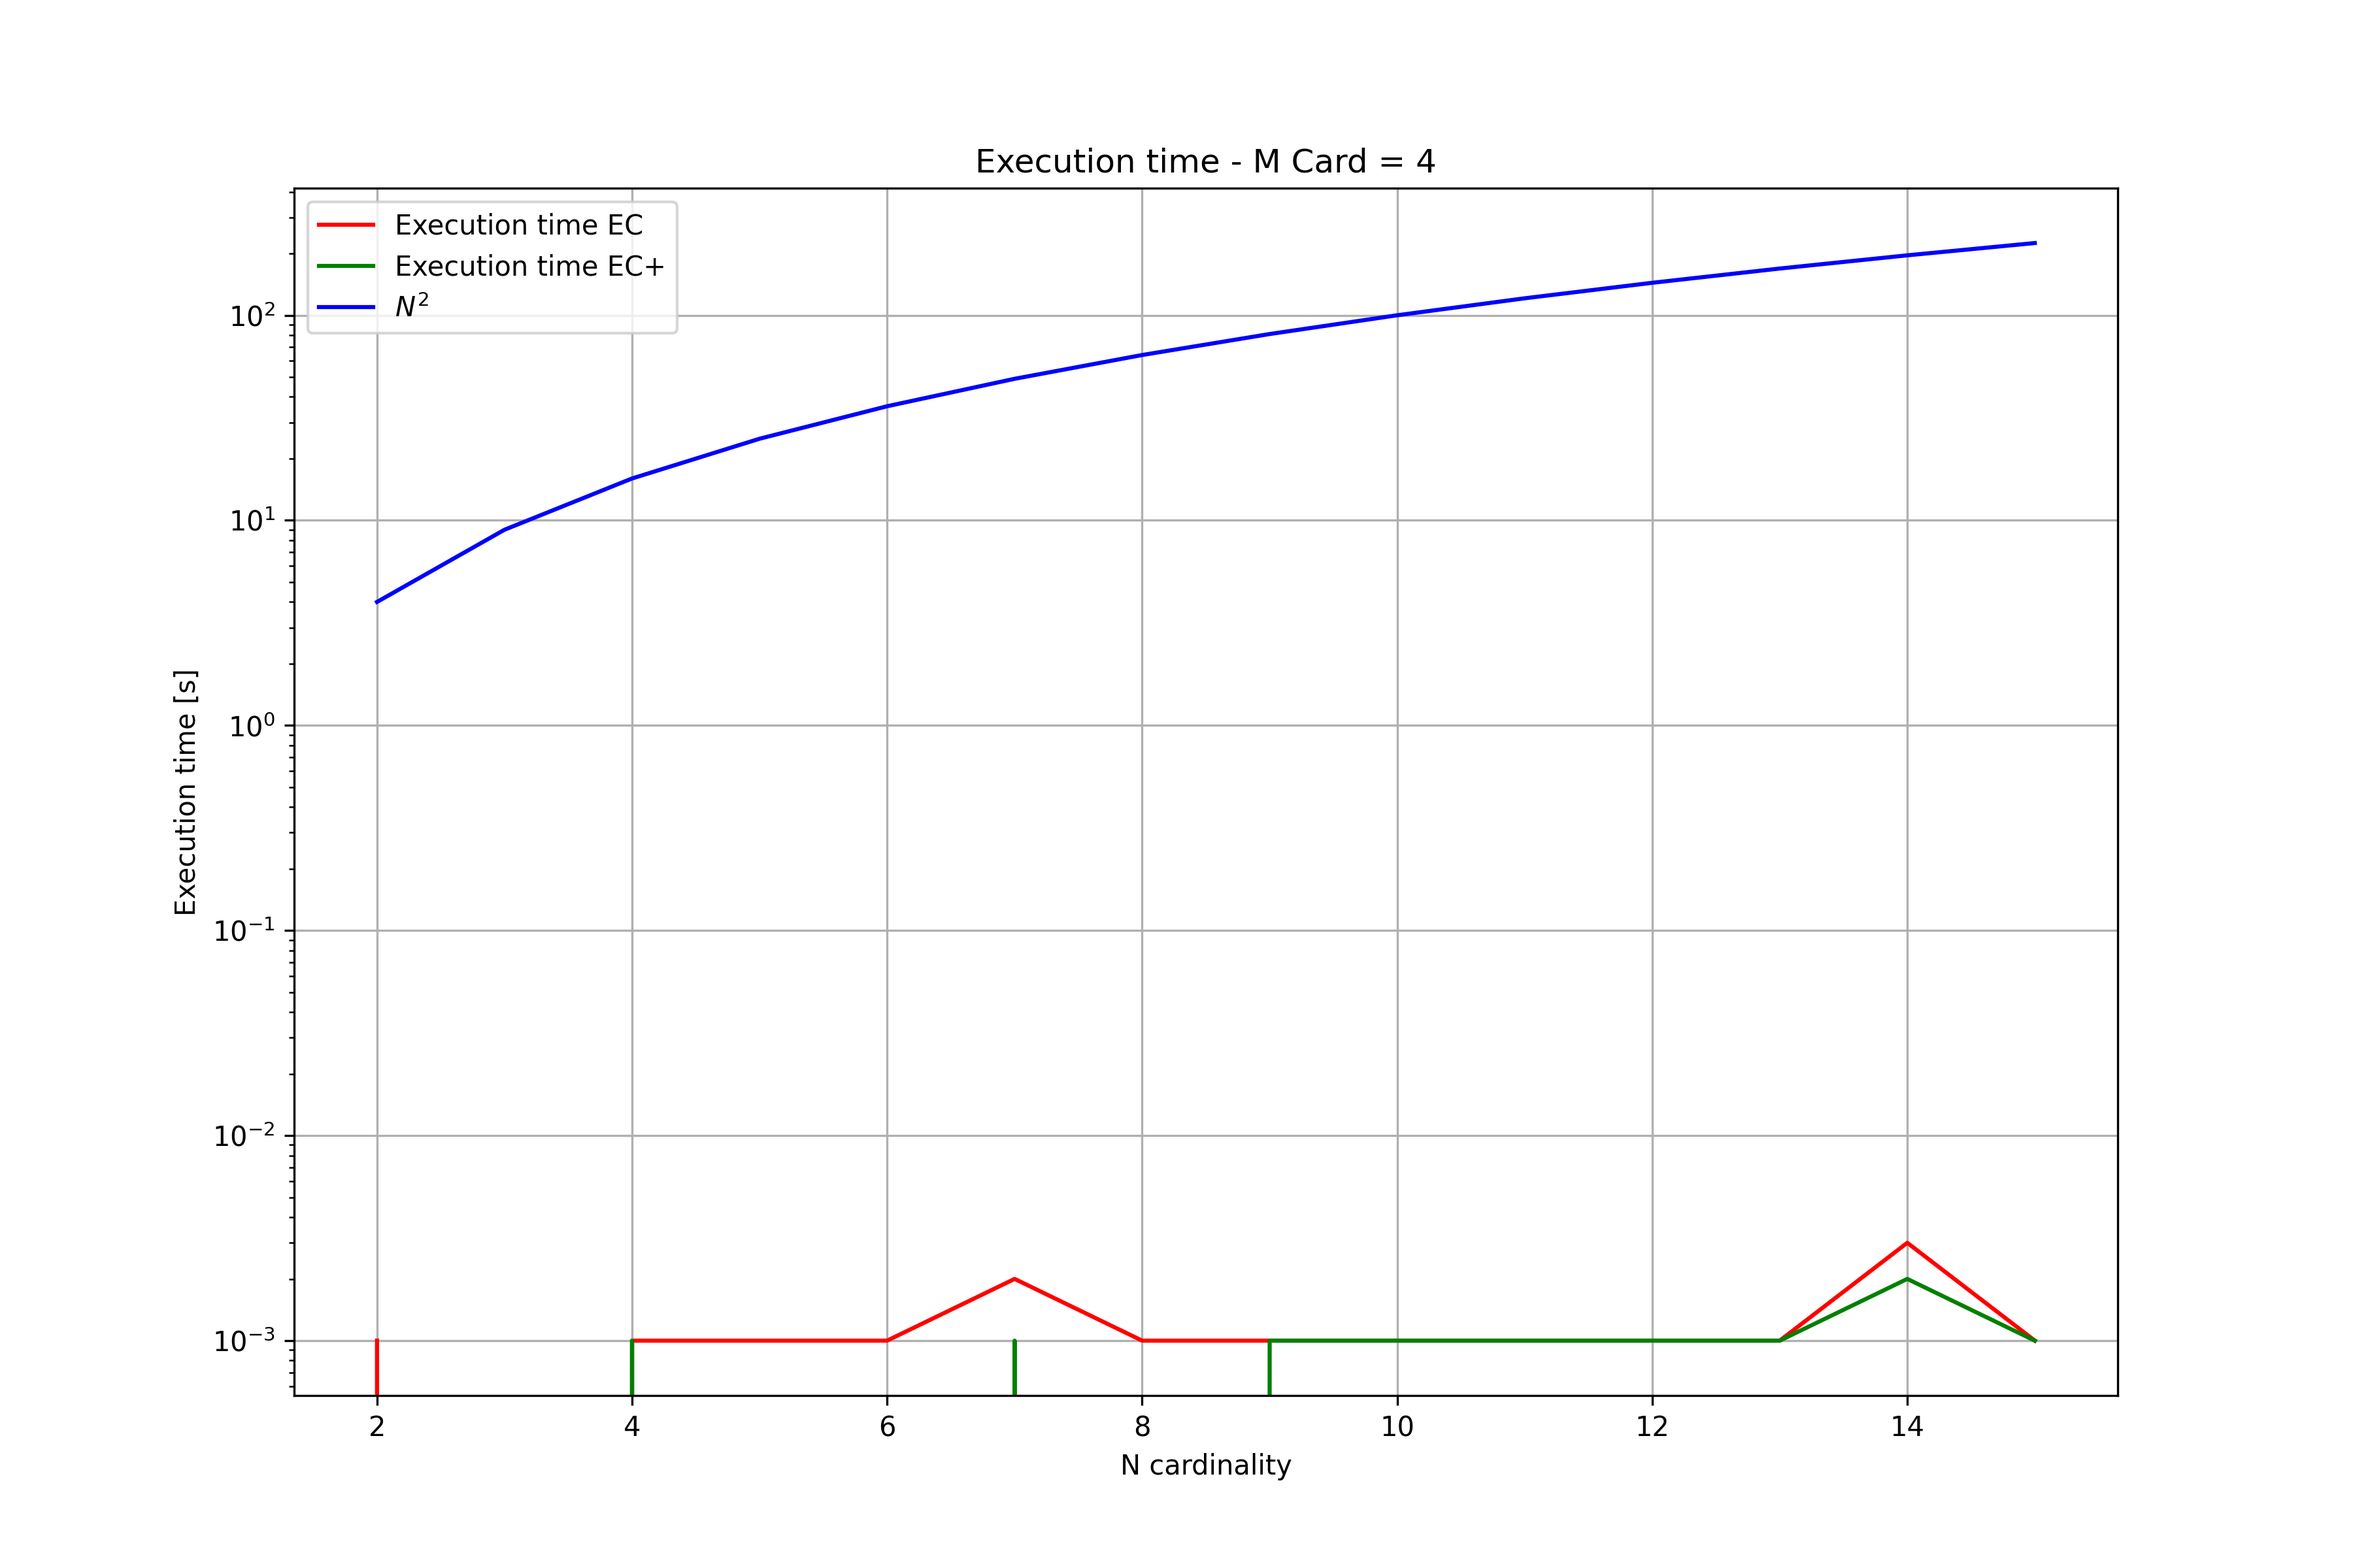
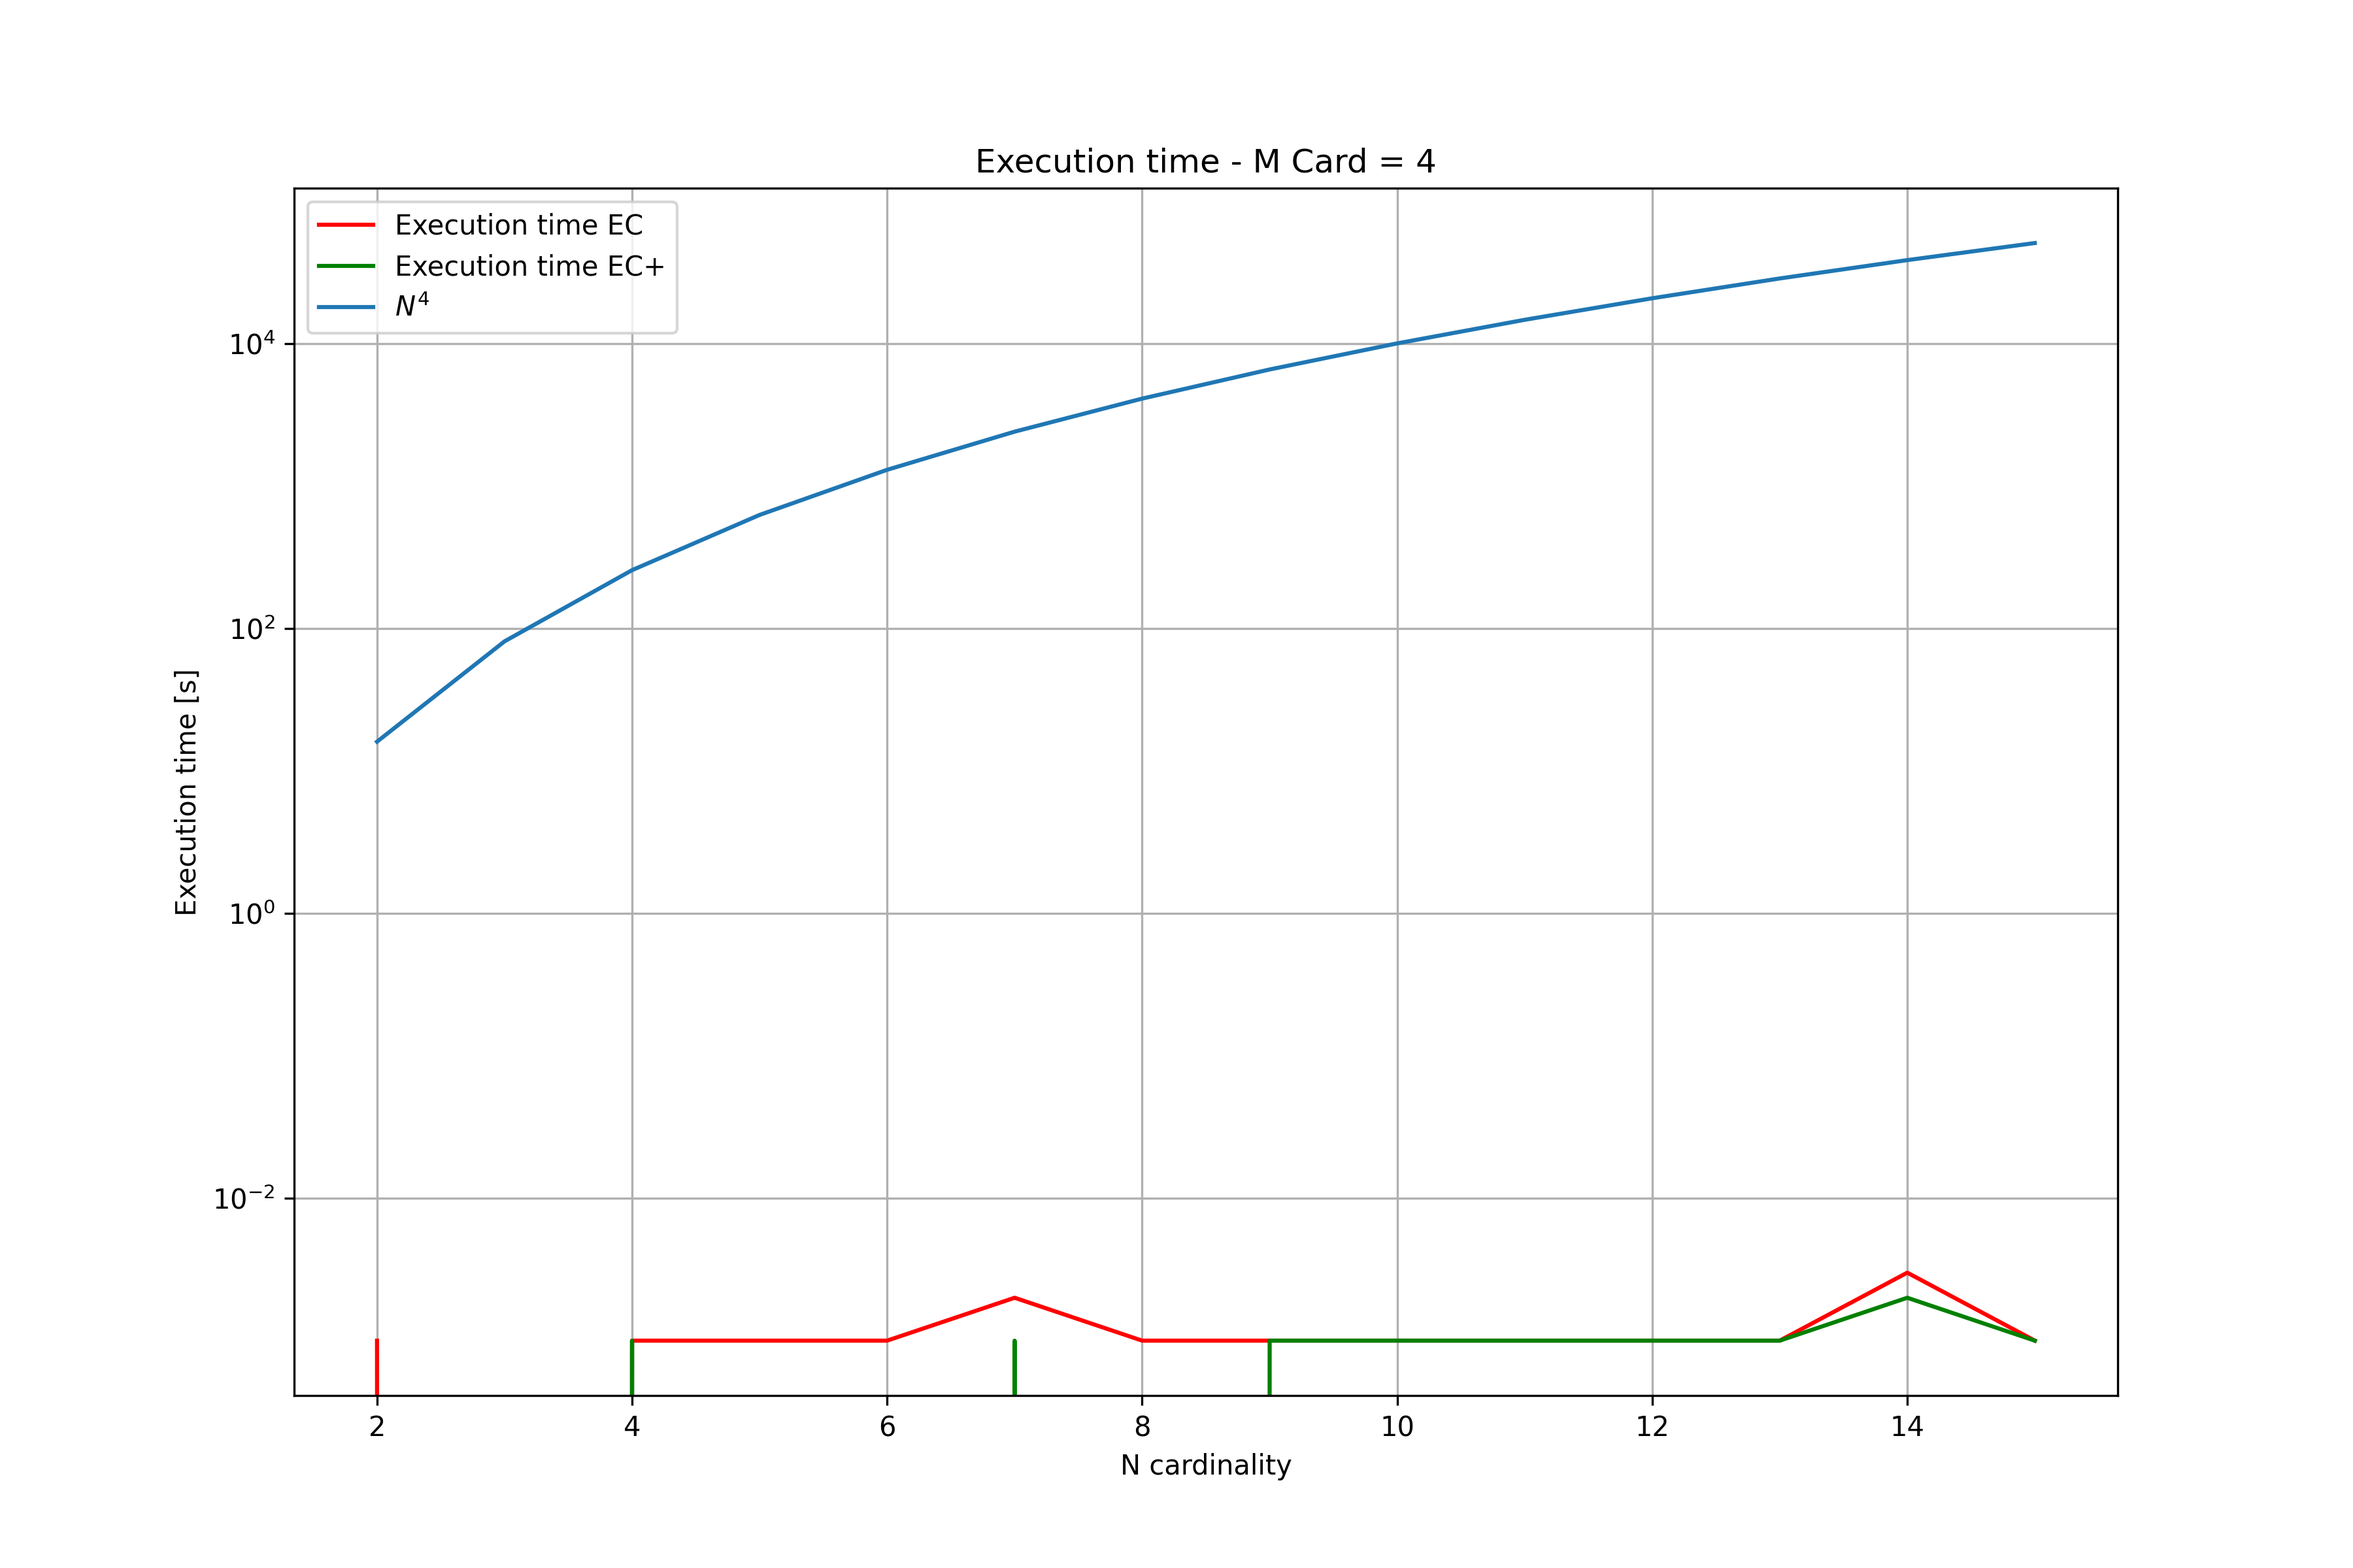
..

diff --git a/Readme.md b/Readme.md
@@ -346,6 +346,8 @@ Notiamo come i tempi di esecuzione di EC ed EC+ non sembrino sostanzialmente div
 di EC+ data al codice non va a modificare il numero di nodi visitati ma va solo a diminuire il numero di unioni tra righe
 della matrice A (operazione che, con la libreria NumPy, non va ad appesantire il sistema in maniera critica); questo
 determina un tempo di esecuzione minore ma non in maniera sostanziale.
+Notiamo come la curva del tempo di esecuzione di entrambi gli algoritmi segue lo sviluppo della curva di $N^4$, quindi 
+possiamo approssimare la complessità temporale di entrambi gli algoritmi con un $O(N^4)$.
 
 ### Numero di nodi visitati
 
@@ -446,10 +448,12 @@ determina un tempo di esecuzione minore ma non in maniera sostanziale.
 |  *Cardinalità di M = 25)*   |
 
 
-Notiamo come, all'aumentare della cardinalità di M, la curva verde tende ad approssimarsi molto bene alla curva blu $N^2$.
-Questo è in linea con le ipotesi teoriche in quanto il ciclo utilizzato dall'algoritmo dovrà verificare, per ogni riga
-della matrice A, tutte le unioni tra quest'ultima e tutte le precedenti (prima prese a coppie, poi ad insiemi di tre, quattro, ...)
-fino a che non si trovano righe incompatibili oppure che unite tra loro formano l'insieme M. 
+Notiamo come, all'aumentare della cardinalità di M, la curva verde tende ad approssimarsi alla curva di $N^3$.
+Questo va a denotare come il numero di nodi visitati tende ad aumentare in maniera esponenziale al crescere della
+cardinalità di M e N. Lo studio della vera e propria complessità spaziale (quindi dello spazio occupato in RAM dall'algoritmo)
+non mi è stato possibile in quanto non c'è un metodo in Python che permetta di capire quanto lo script stia occupando
+come memoria RAM del dispositivo; ho quindi pensato di poterla approssimare con il numero totale di nodi che l'algoritmo ha
+dovuto visitare durante la sua esecuzione.
 
 ![](./img/Visited.gif)
 
